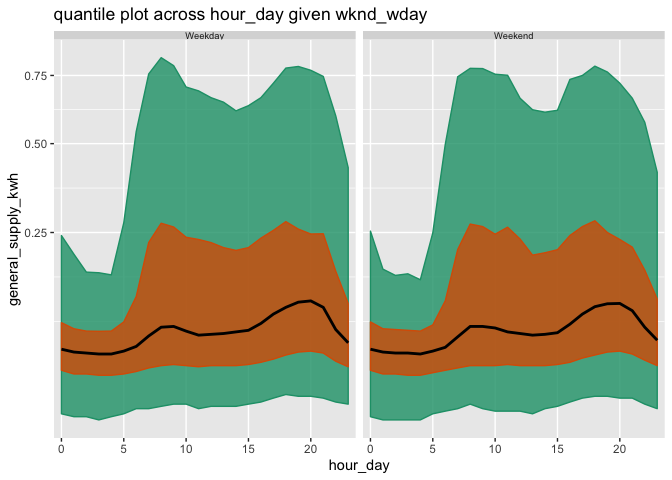
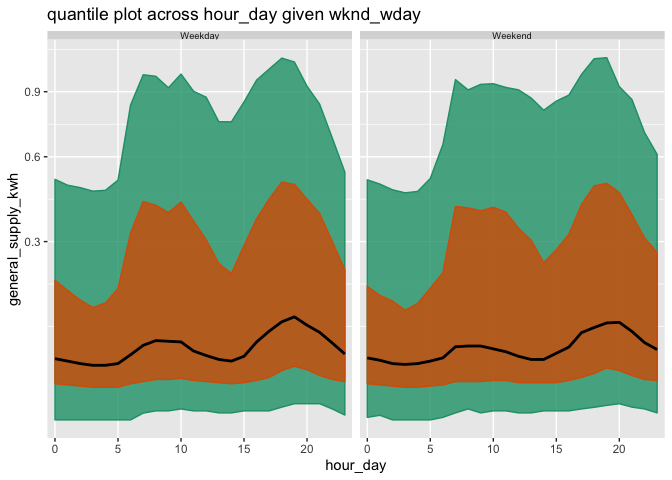
changing imports exports

diff --git a/README.md b/README.md
@@ -80,50 +80,31 @@ gravitas::run\_app().
 
 ## Example
 
-The probability distribution of the energy consumption for one household
-from [customer
+The probability distribution of the energy consumption for ten
+households from [customer
 trials](https://data.gov.au/dataset/ds-dga-4e21dea3-9b87-4610-94c7-15a8a77907ef/details?q=smart-meter)
 across weekend/weekday and half-hours of the day can be examined through
 a quantile plot or letter value plot.
 
 ``` r
-library(gravitas)
-library(dplyr)
-#> Warning: package 'dplyr' was built under R version 3.5.2
-library(ggplot2)
-#> Warning: package 'ggplot2' was built under R version 3.5.2
-library(tsibble)
-#> Warning: package 'tsibble' was built under R version 3.5.2
-
-smart_meter <- smart_meter20 %>% as_tsibble() %>% ungroup()
-
-smart_meter %>% 
+smart_meter10 %>% 
   prob_plot(gran1 = "wknd_wday",
             gran2 = "hour_day",
             response = "general_supply_kwh",
             plot_type = "quantile",
                        quantile_prob = c(0.1, 0.25, 0.5, 0.75, 0.9)) +
   scale_y_sqrt()
-#> Warning in gran_warn(.data, gran1, gran2, hierarchy_tbl = hierarchy_tbl, : Number of observations for few combinations of
-#>      granularities vary within or across facets.
-#>      Use gran_obs() to find combinations which have low
-#>             observations or very different number of observations.
 ```
 
 <img src="man/figures/README-unnamed-chunk-4-1.png" width="100%" />
 
 ``` r
-library(gravitas)
-smart_meter %>% 
+smart_meter10 %>% 
   prob_plot("wknd_wday",
             "hour_day",
                               response = "general_supply_kwh",
                               plot_type = "lv",
                        outlier.colour = "red") + scale_y_sqrt()
-#> Warning in gran_warn(.data, gran1, gran2, hierarchy_tbl = hierarchy_tbl, : Number of observations for few combinations of
-#>      granularities vary within or across facets.
-#>      Use gran_obs() to find combinations which have low
-#>             observations or very different number of observations.
 ```
 
 <img src="man/figures/README-unnamed-chunk-5-1.png" width="100%" />
